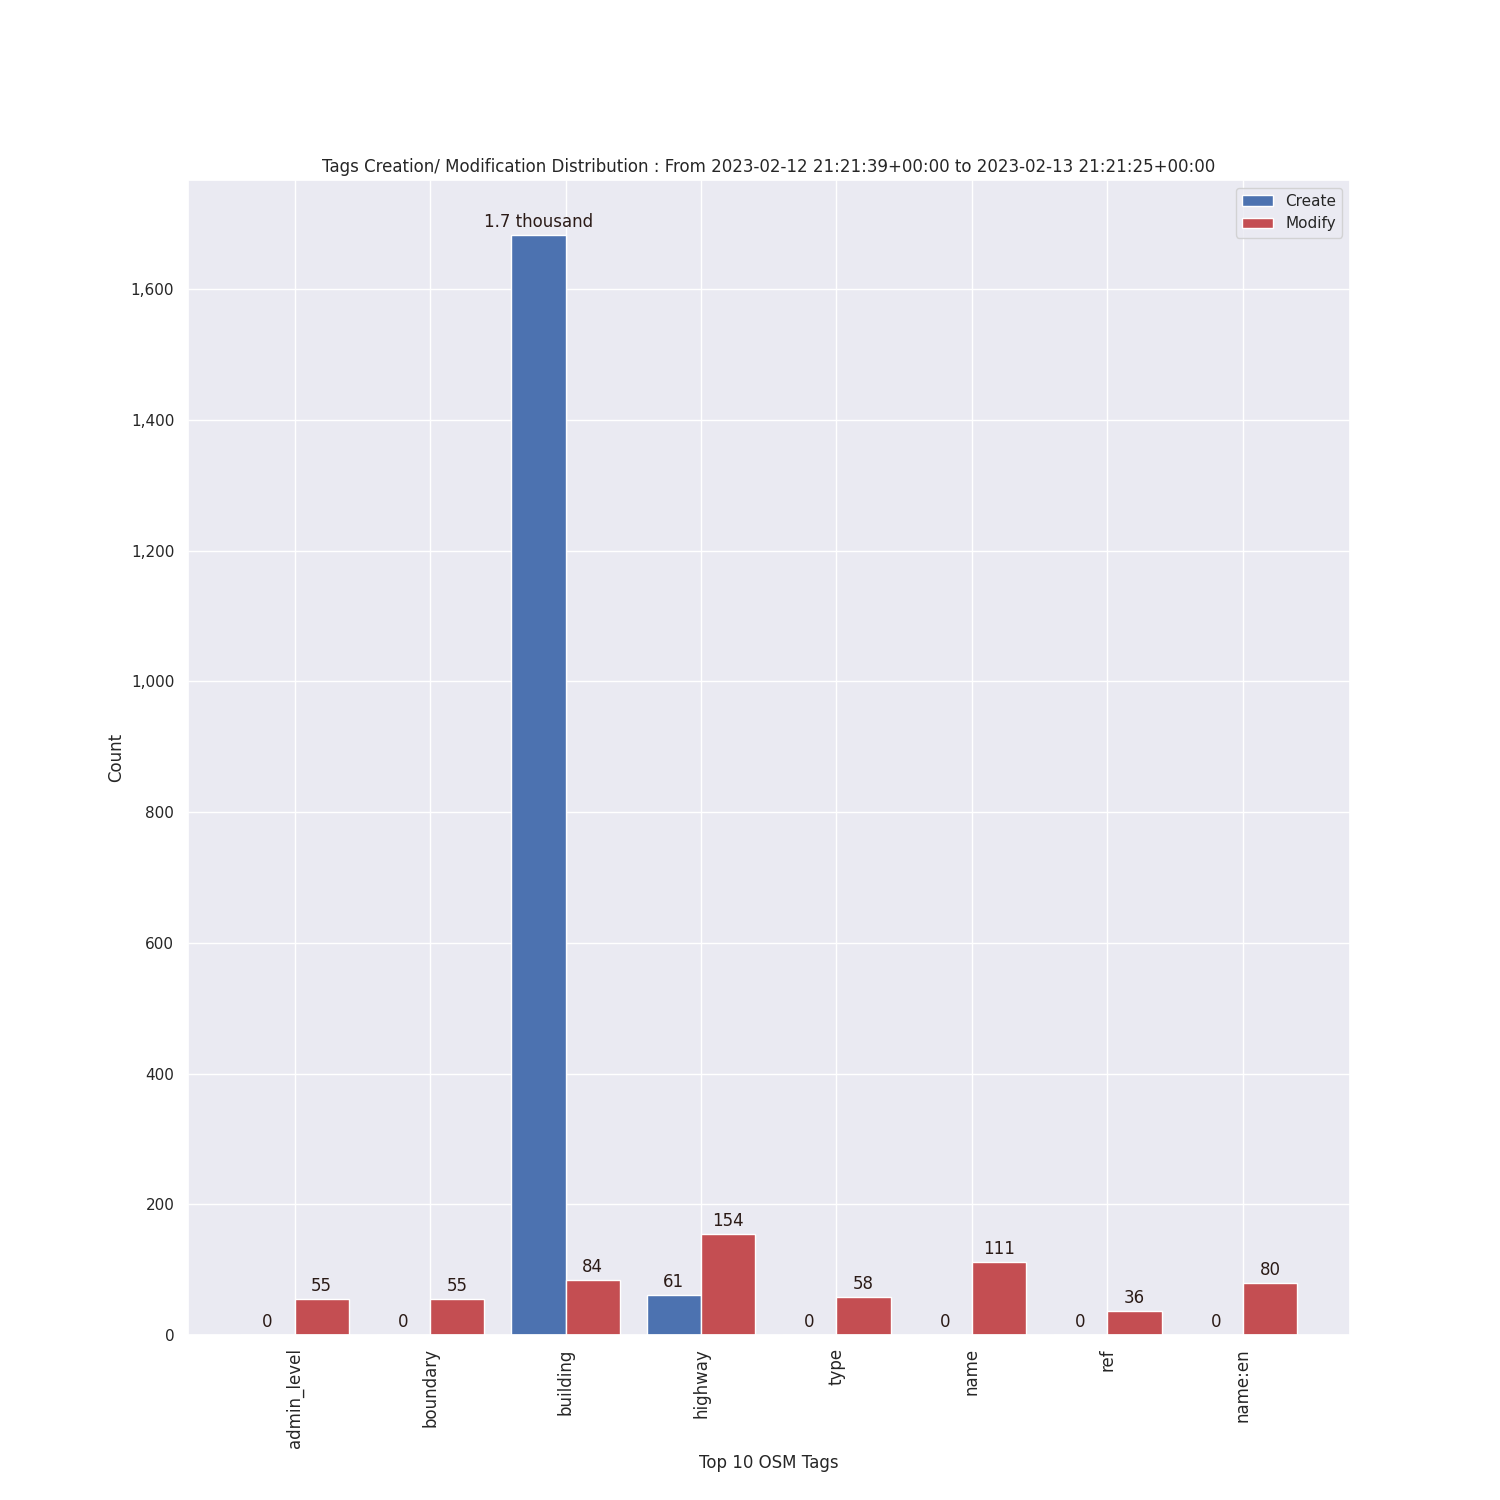
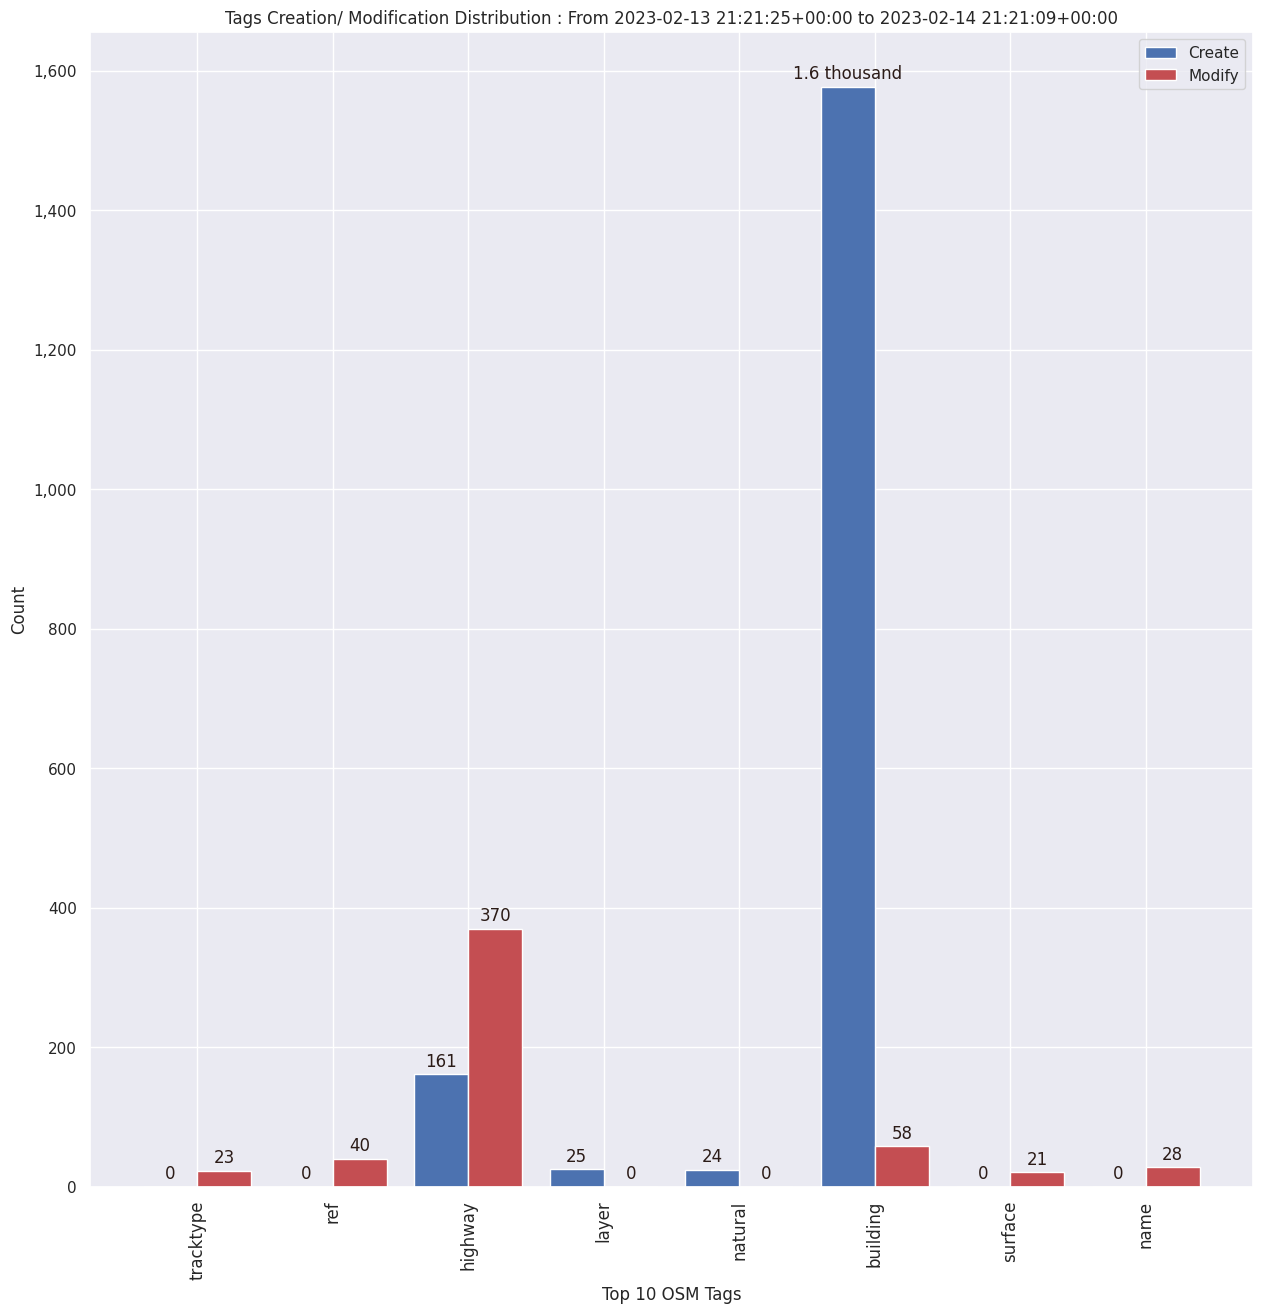
Updated Readme Daily Nepal

diff --git a/stats/Nepal/Daily/README.md b/stats/Nepal/Daily/README.md
@@ -1,10 +1,10 @@
 ### Last Update :
 
-### Stats From 2023-02-13 03:06:39+05:45 to 2023-02-14 03:06:25+05:45
+### Stats From 2023-02-14 03:06:25+05:45 to 2023-02-15 03:06:09+05:45
 
-41 Users made 164 changesets with 21244 map changes.
-- Fadlilaa IRM-RV tops table with 3246 changes, Followed by tek kumari rana magar & marek kleciak. Users created 12439 nodes , 1818 ways & 1 relations, Including 1683 buildings, 61 highways, 11 waterways. Users also modified 6628 nodes, 300 ways & 58 relations
-- Top three trending hashtags for those stats are #YouthMappers : 6, #gesan : 6 & #geoneer : 5
+45 Users made 150 changesets with 32494 map changes.
+- DiahW IRM-ED tops table with 8760 changes, Followed by Heinz_V & Fadlilaa IRM-RV. Users created 20830 nodes , 1788 ways & 0 relations, Including 1577 buildings, 161 highways, 10 waterways. Users also modified 9393 nodes, 479 ways & 4 relations
+- Top three trending hashtags for those stats are #AtlasChecks : 11, #maproulette : 11 & #geoneer : 6
 - 
 ![Alt text](./charts/osm_changes.png) 
 ![Alt text](./charts/users_per_hashtag.png) 
